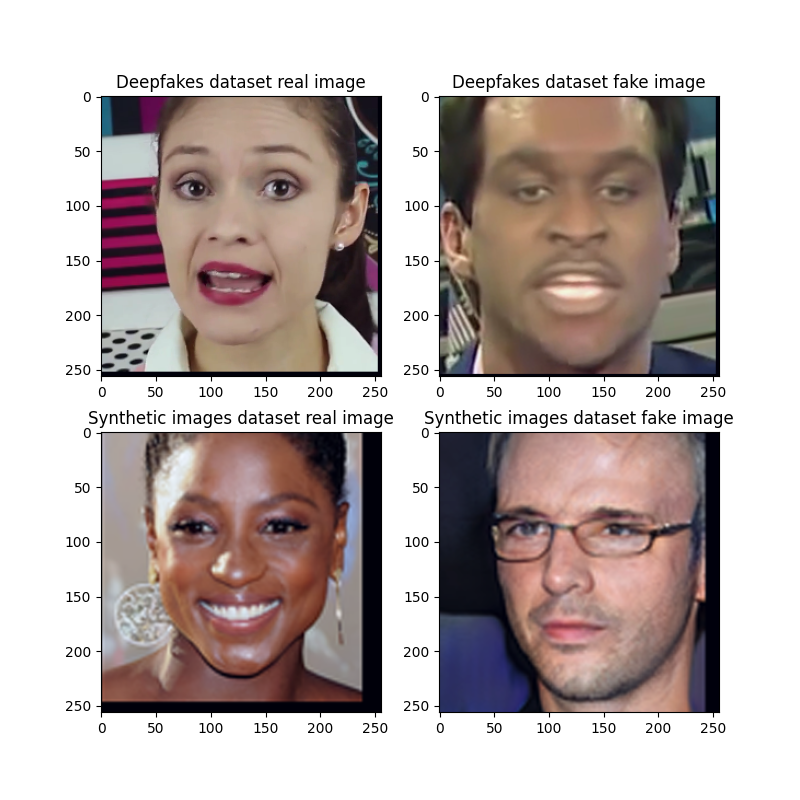
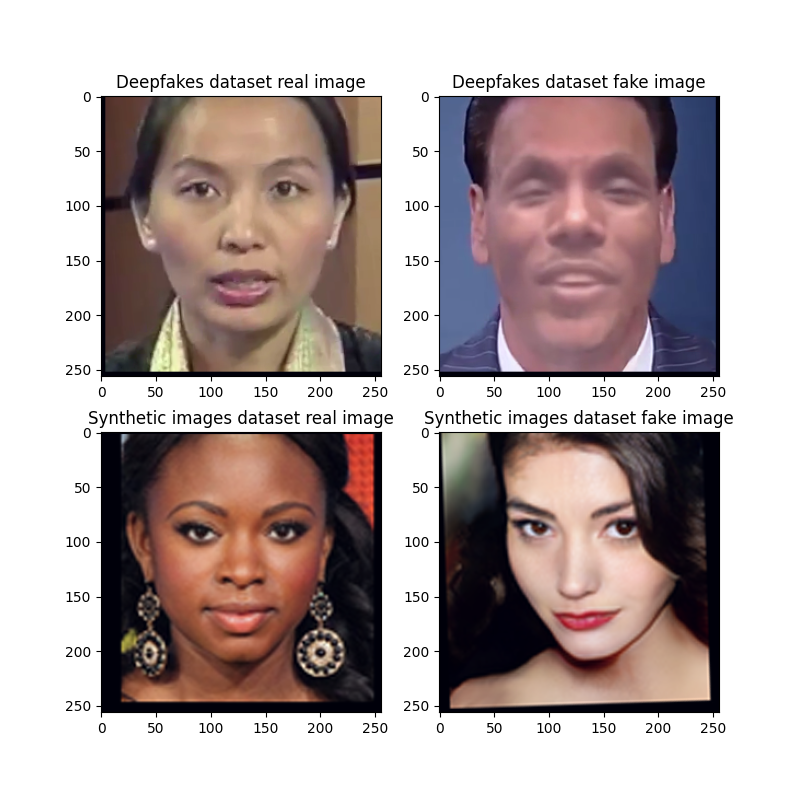
real/fakes visualization script fix

diff --git a/plot_samples_of_faces_datasets.py b/plot_samples_of_faces_datasets.py
@@ -18,8 +18,8 @@ def main():
     # create deepfakes dataset
     fakes_dataset_train = load_dataset('fakes_dataset', 'train')
     # sample indices of real and fake images
-    real_image_idx = random.choice(range(int(len(fakes_dataset_train) / 2)))
-    fake_image_idx = random.choice(range(int(len(fakes_dataset_train) / 2),
+    real_image_idx = random.choice(range(int(len(fakes_dataset_train.real_image_names))))
+    fake_image_idx = random.choice(range(int(len(fakes_dataset_train.real_image_names)),
                                          len(fakes_dataset_train)))
     images_samples = plt.figure()
     plt.subplot(2, 2, 1)
@@ -34,8 +34,8 @@ def main():
     # create synthetic faces dataset
     synthetic_dataset_train = load_dataset('synthetic_dataset', 'train')
 
-    real_image_idx = random.choice(range(int(len(synthetic_dataset_train) / 2)))
-    fake_image_idx = random.choice(range(int(len(synthetic_dataset_train) / 2),
+    real_image_idx = random.choice(range(int(len(synthetic_dataset_train.real_image_names))))
+    fake_image_idx = random.choice(range(int(len(synthetic_dataset_train.real_image_names)),
                                          len(synthetic_dataset_train)))
     plt.subplot(2, 2, 3)
     plt.imshow(normalize(
